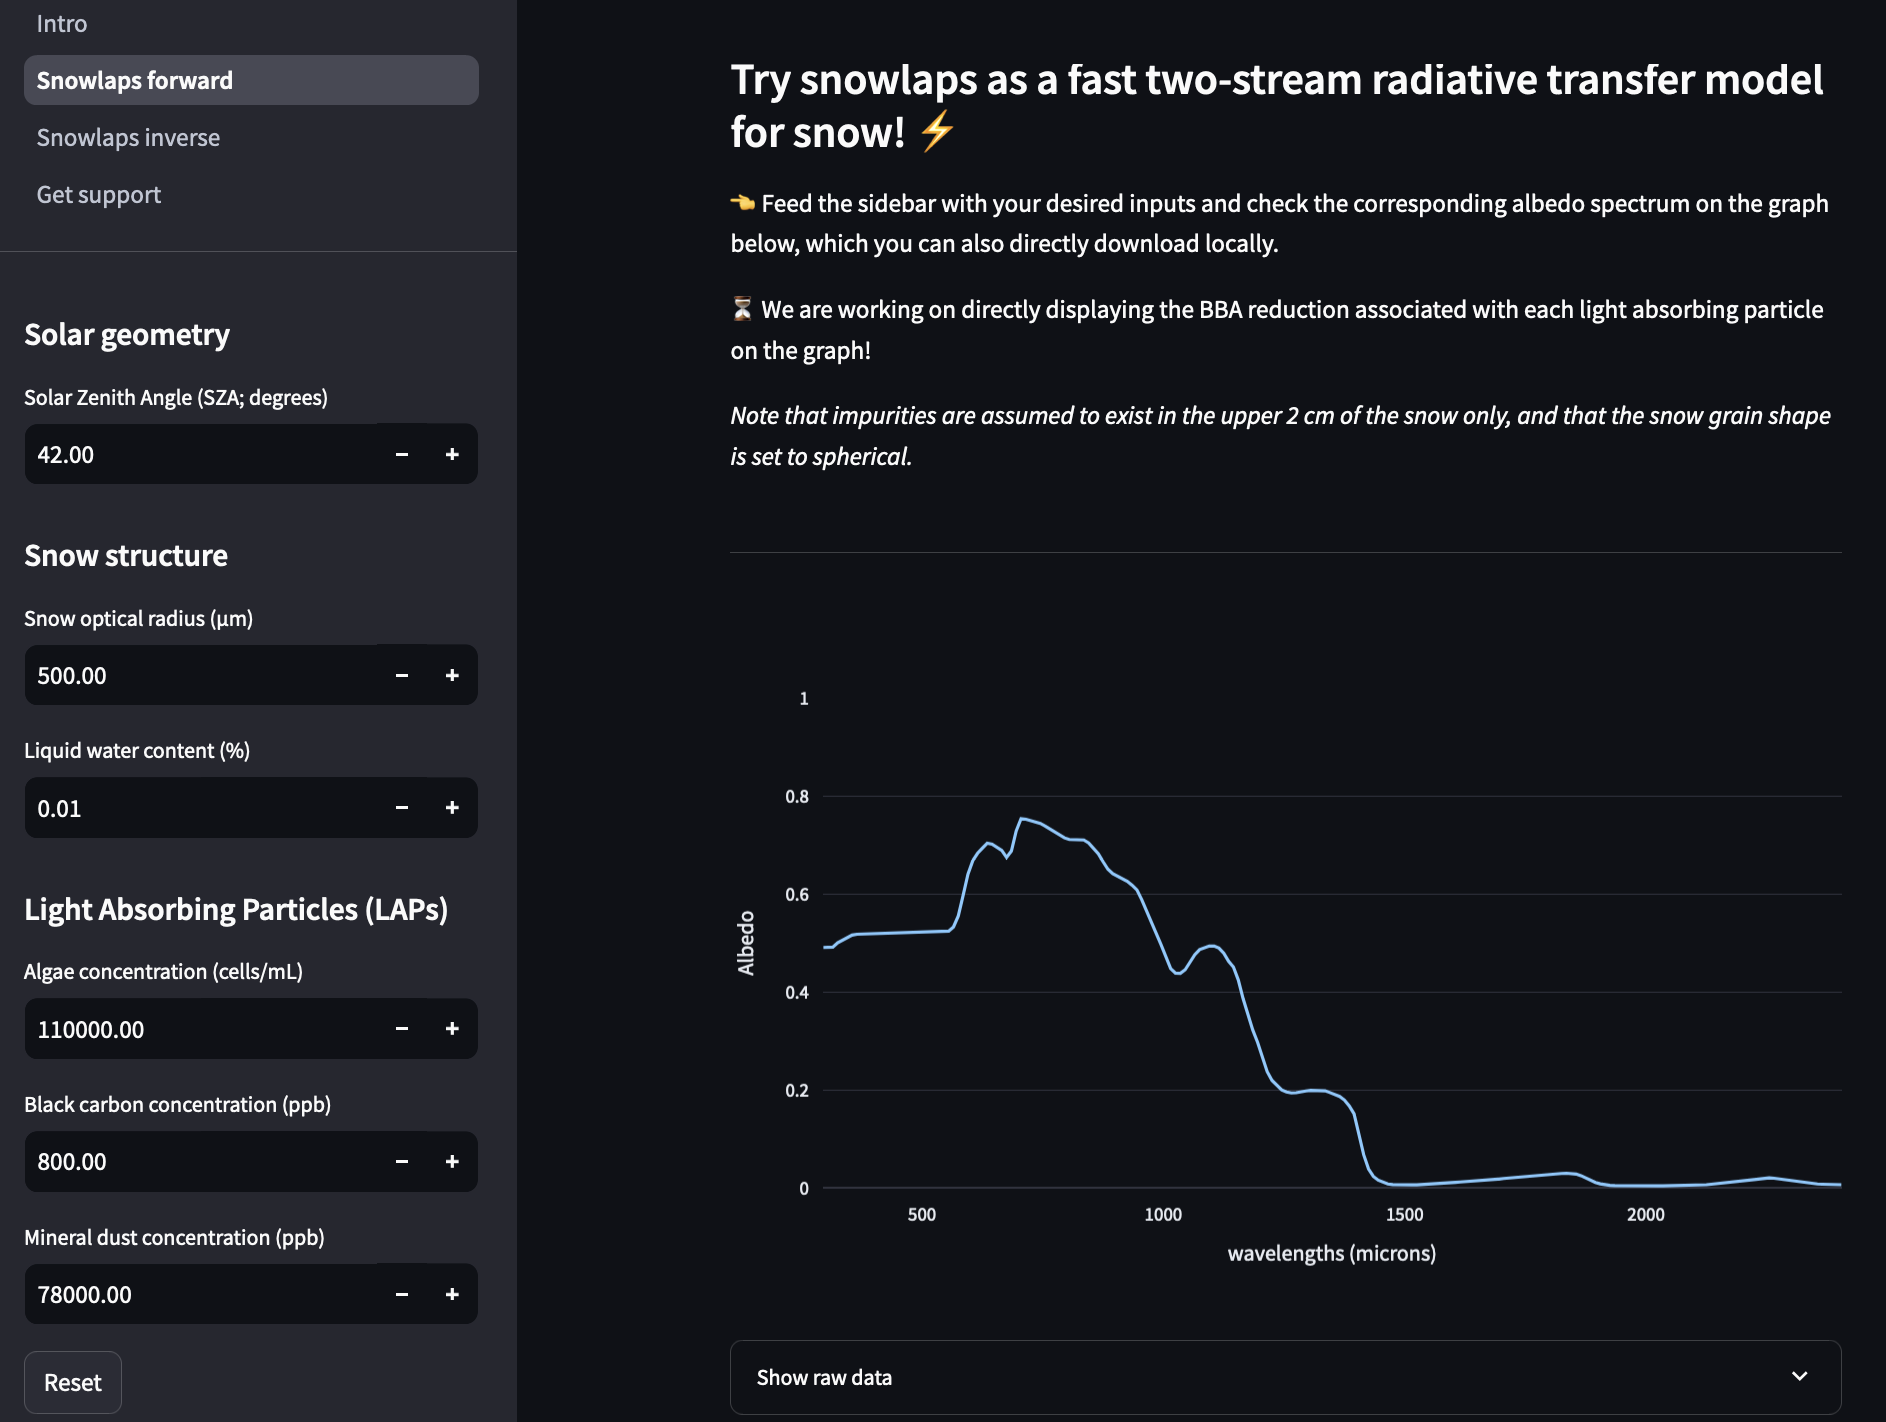
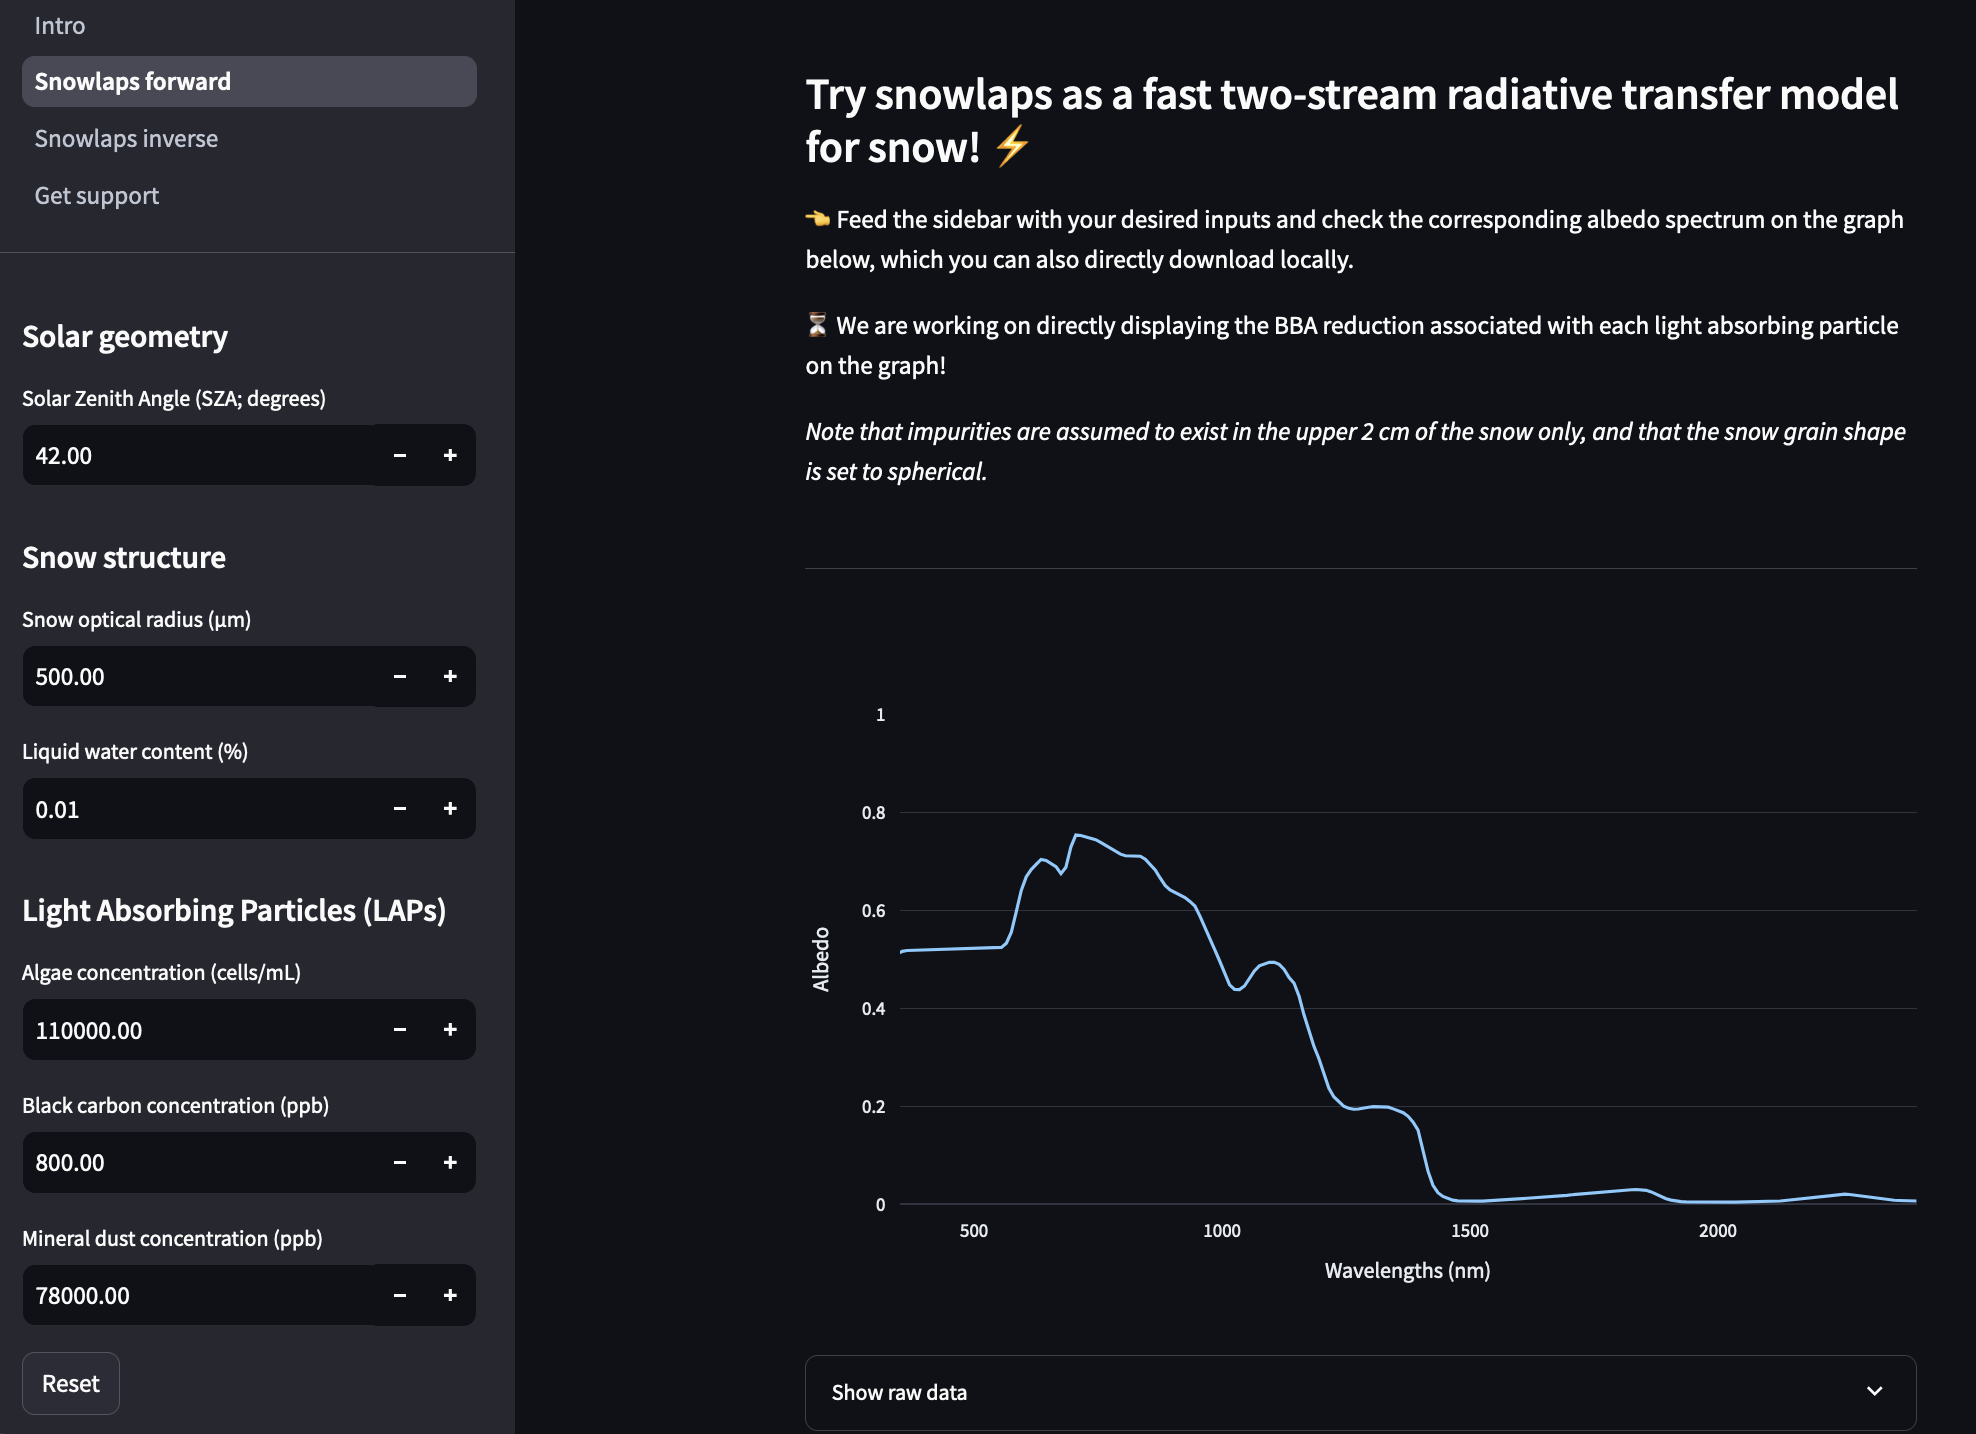
fix titles app graphs (#23)

diff --git a/app/pages/2_Snowlaps_inverse.py b/app/pages/2_Snowlaps_inverse.py
@@ -91,7 +91,13 @@ def plot_inversion(spectrum):
     emulator = st.session_state.best_emulator_spectra[spectrum]
     df_m = pd.DataFrame({"measures": st.session_state.albedo_spectra[spectrum]})
     df = pd.concat([df_m, emulator], axis=1)
-    fig = go.Figure()
+    fig = go.Figure(layout=go.Layout(
+        xaxis=dict(
+        title="Wavelengths (nm)"
+    ),
+    yaxis=dict(
+        title="Albedo"
+    ) ) )
     fig.add_trace(
         go.Scatter(
             x=df.index,
@@ -111,14 +117,20 @@ def plot_inversion(spectrum):
         )
     )
     fig.update_traces(marker=dict(size=5))
-    fig.update_xaxes(range=[350, 2500])
+    fig.update_xaxes(range=[350, 2400])
     fig.update_yaxes(range=[0, 1])
     return fig
 
 
 def plot_forward(spectrum, parameters):
     df_m = pd.DataFrame({"measures": st.session_state.albedo_spectra[spectrum]})
-    fig1 = go.Figure()
+    fig1 = go.Figure(layout=go.Layout(
+        xaxis=dict(
+        title="Wavelengths (nm)"
+    ),
+    yaxis=dict(
+        title="Albedo"
+    ) ) )
     emulator_results = run_snowlaps(parameters)
     df = pd.concat([df_m, emulator_results], axis=1)
     df = df.rename(columns={df.columns[1]: "emulator"})
@@ -140,7 +152,7 @@ def plot_forward(spectrum, parameters):
             line=dict(color="white", width=2),
         )
     )
-    fig1.update_xaxes(range=[350, 2500])
+    fig1.update_xaxes(range=[350, 2400])
     fig1.update_yaxes(range=[0, 1])
     return fig1
 
@@ -148,15 +160,17 @@ def plot_forward(spectrum, parameters):
 
 placeholder_title_solar_geometry = st.sidebar.empty()
 placeholder_SZA = st.sidebar.empty()
+
+placeholder_title_snow_structure = st.sidebar.empty()
 placeholder_optical_radius = st.sidebar.empty()
+placeholder_lwc = st.sidebar.empty()
+
 
 placeholder_title_LAPs = st.sidebar.empty()
 placeholder_algae = st.sidebar.empty()
 placeholder_black_carbon = st.sidebar.empty()
 placeholder_dust = st.sidebar.empty()
 
-placeholder_title_water = st.sidebar.empty()
-placeholder_lwc = st.sidebar.empty()
 
 placeholder_button = st.sidebar.empty()
 
@@ -207,13 +221,23 @@ if "inv" in st.session_state:
             90.0,
             value=st.session_state.best_optimization_results.loc[spectrum]["sza"],
         )
+        
+        placeholder_title_snow_structure.header("Snow structure")
+
         optical_radius = placeholder_optical_radius.number_input(
-            "Snow optical radius (um)",
+            "Snow optical radius (µm)",
             0.0,
             1000.0,
             value=st.session_state.best_optimization_results.loc[spectrum][
                 "grain_size"
             ],
+        )
+        
+        liquid_water_content = placeholder_lwc.number_input(
+            "Liquid water content (%)",
+            0.0,
+            0.1,
+            value=st.session_state.best_optimization_results.loc[spectrum]["lwc"],
         )
 
         placeholder_title_LAPs.header("Light Absorbing Particles (LAPs)")
@@ -231,20 +255,14 @@ if "inv" in st.session_state:
             value=st.session_state.best_optimization_results.loc[spectrum]["bc"],
         )
         mineral_dust_concentration = placeholder_dust.number_input(
-            "Mineral dust concentration (um)",
+            "Mineral dust concentration (ppb)",
             0.0,
             780000.0,
             value=st.session_state.best_optimization_results.loc[spectrum]["dust"],
         )
 
-        placeholder_title_water.header("Water")
 
-        liquid_water_content = placeholder_lwc.number_input(
-            "Liquid water content (%)",
-            0.0,
-            0.1,
-            value=st.session_state.best_optimization_results.loc[spectrum]["lwc"],
-        )
+        
 
     parameters = [
         SZA,

diff --git a/app/pages/1_Snowlaps_forward.py b/app/pages/1_Snowlaps_forward.py
@@ -146,8 +146,8 @@ def plot_albedo(albedo: pd.Series):
     fig = px.line(
         result["albedo"],
         range_y=[0, 1],
-        # range_x=[0.205, 2.5],
-        labels={"index": "wavelengths (microns)", "value": "Albedo"},
+        range_x=[350, 2400],
+        labels={"index": "Wavelengths (nm)", "value": "Albedo"},
     )
     fig.update_layout(showlegend=False)
     return fig
